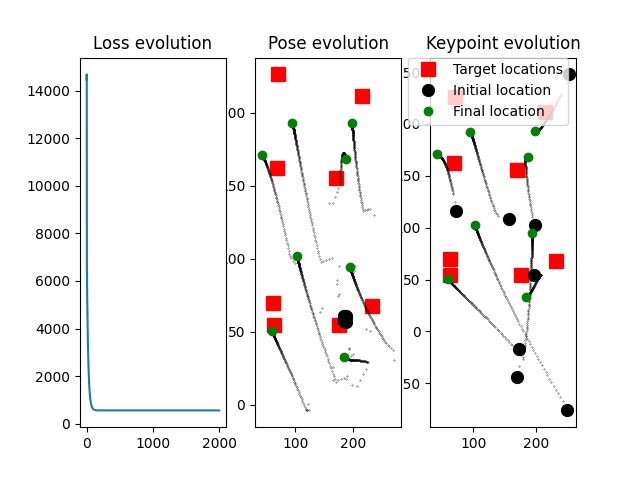
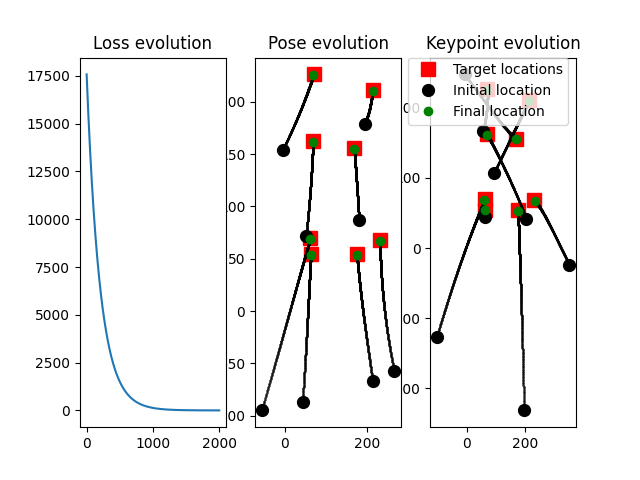
better PoseEst result

diff --git a/demoPoseEst.py b/demoPoseEst.py
@@ -31,7 +31,7 @@ ite = 2000
 
 pts2d = pts2d_gt.clone() + 100*torch.randn_like(pts2d_gt)
 pts2d.requires_grad_()
-optimizer = torch.optim.SGD([{'params':pts2d}], lr=0.2)
+optimizer = torch.optim.SGD([{'params':pts2d}], lr=0.02)
 
 # model = torchvision.models.vgg11()
 # model.classifier = torch.nn.Linear(25088,n*2)
